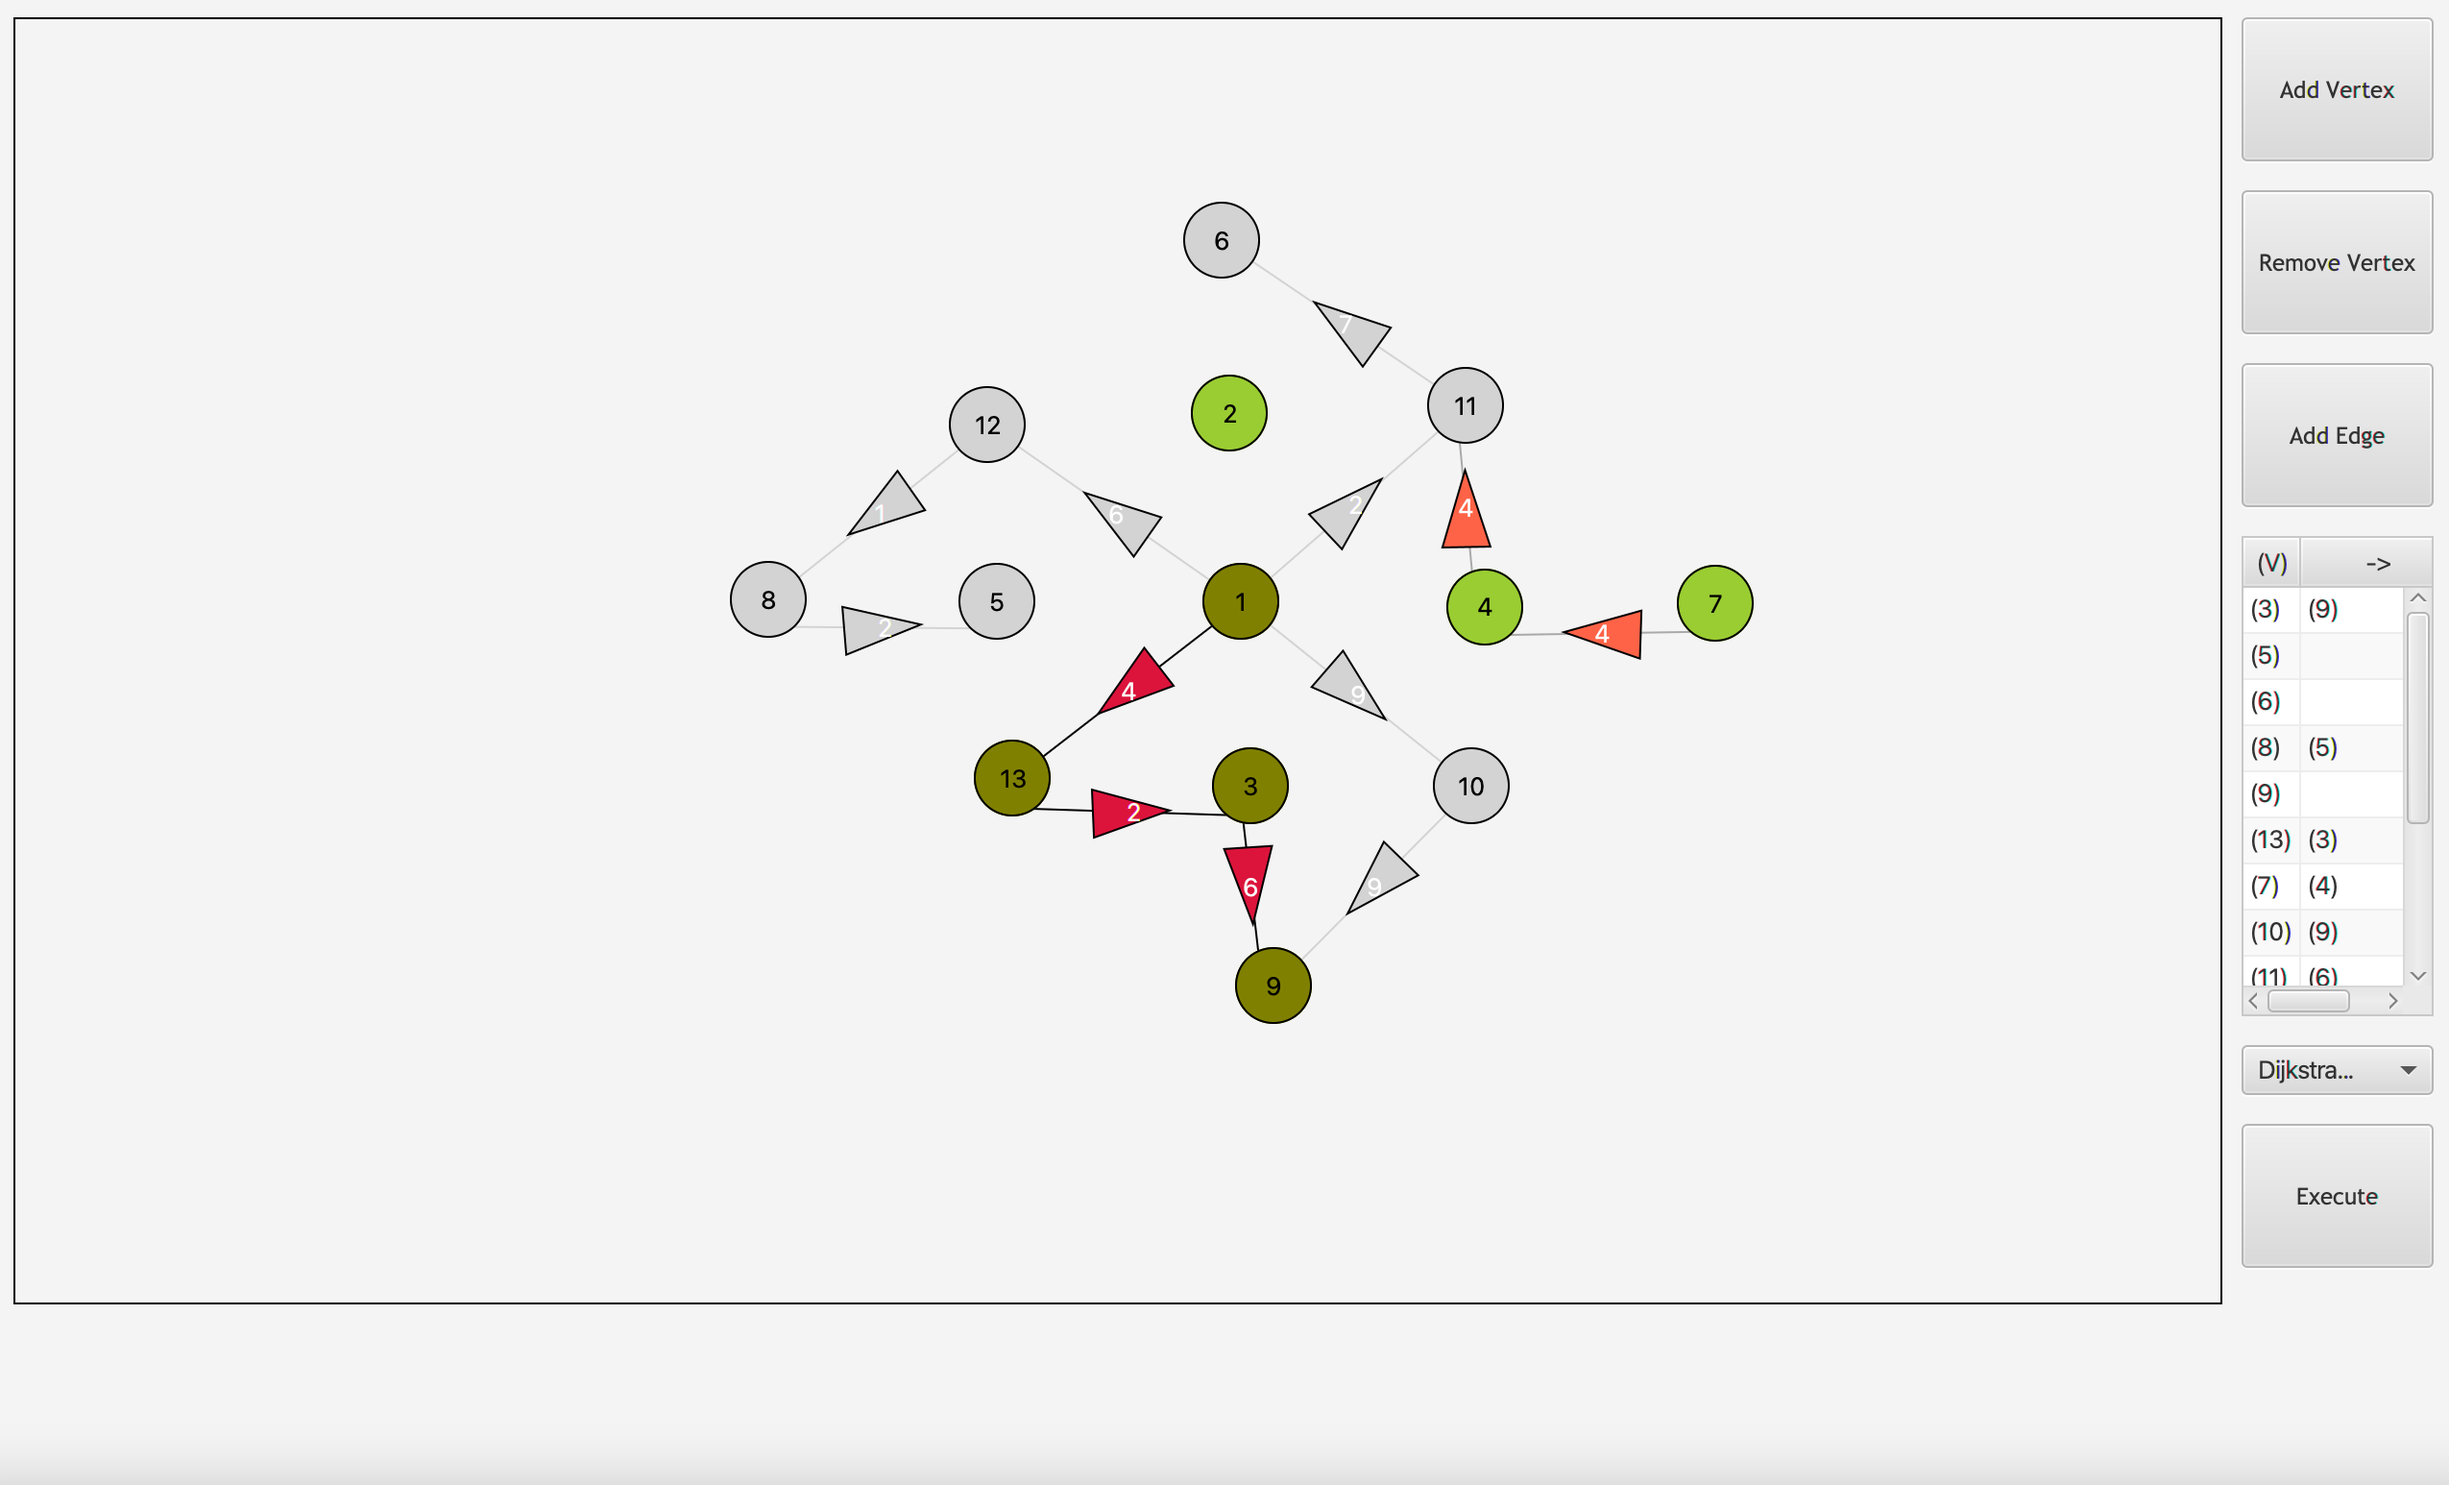
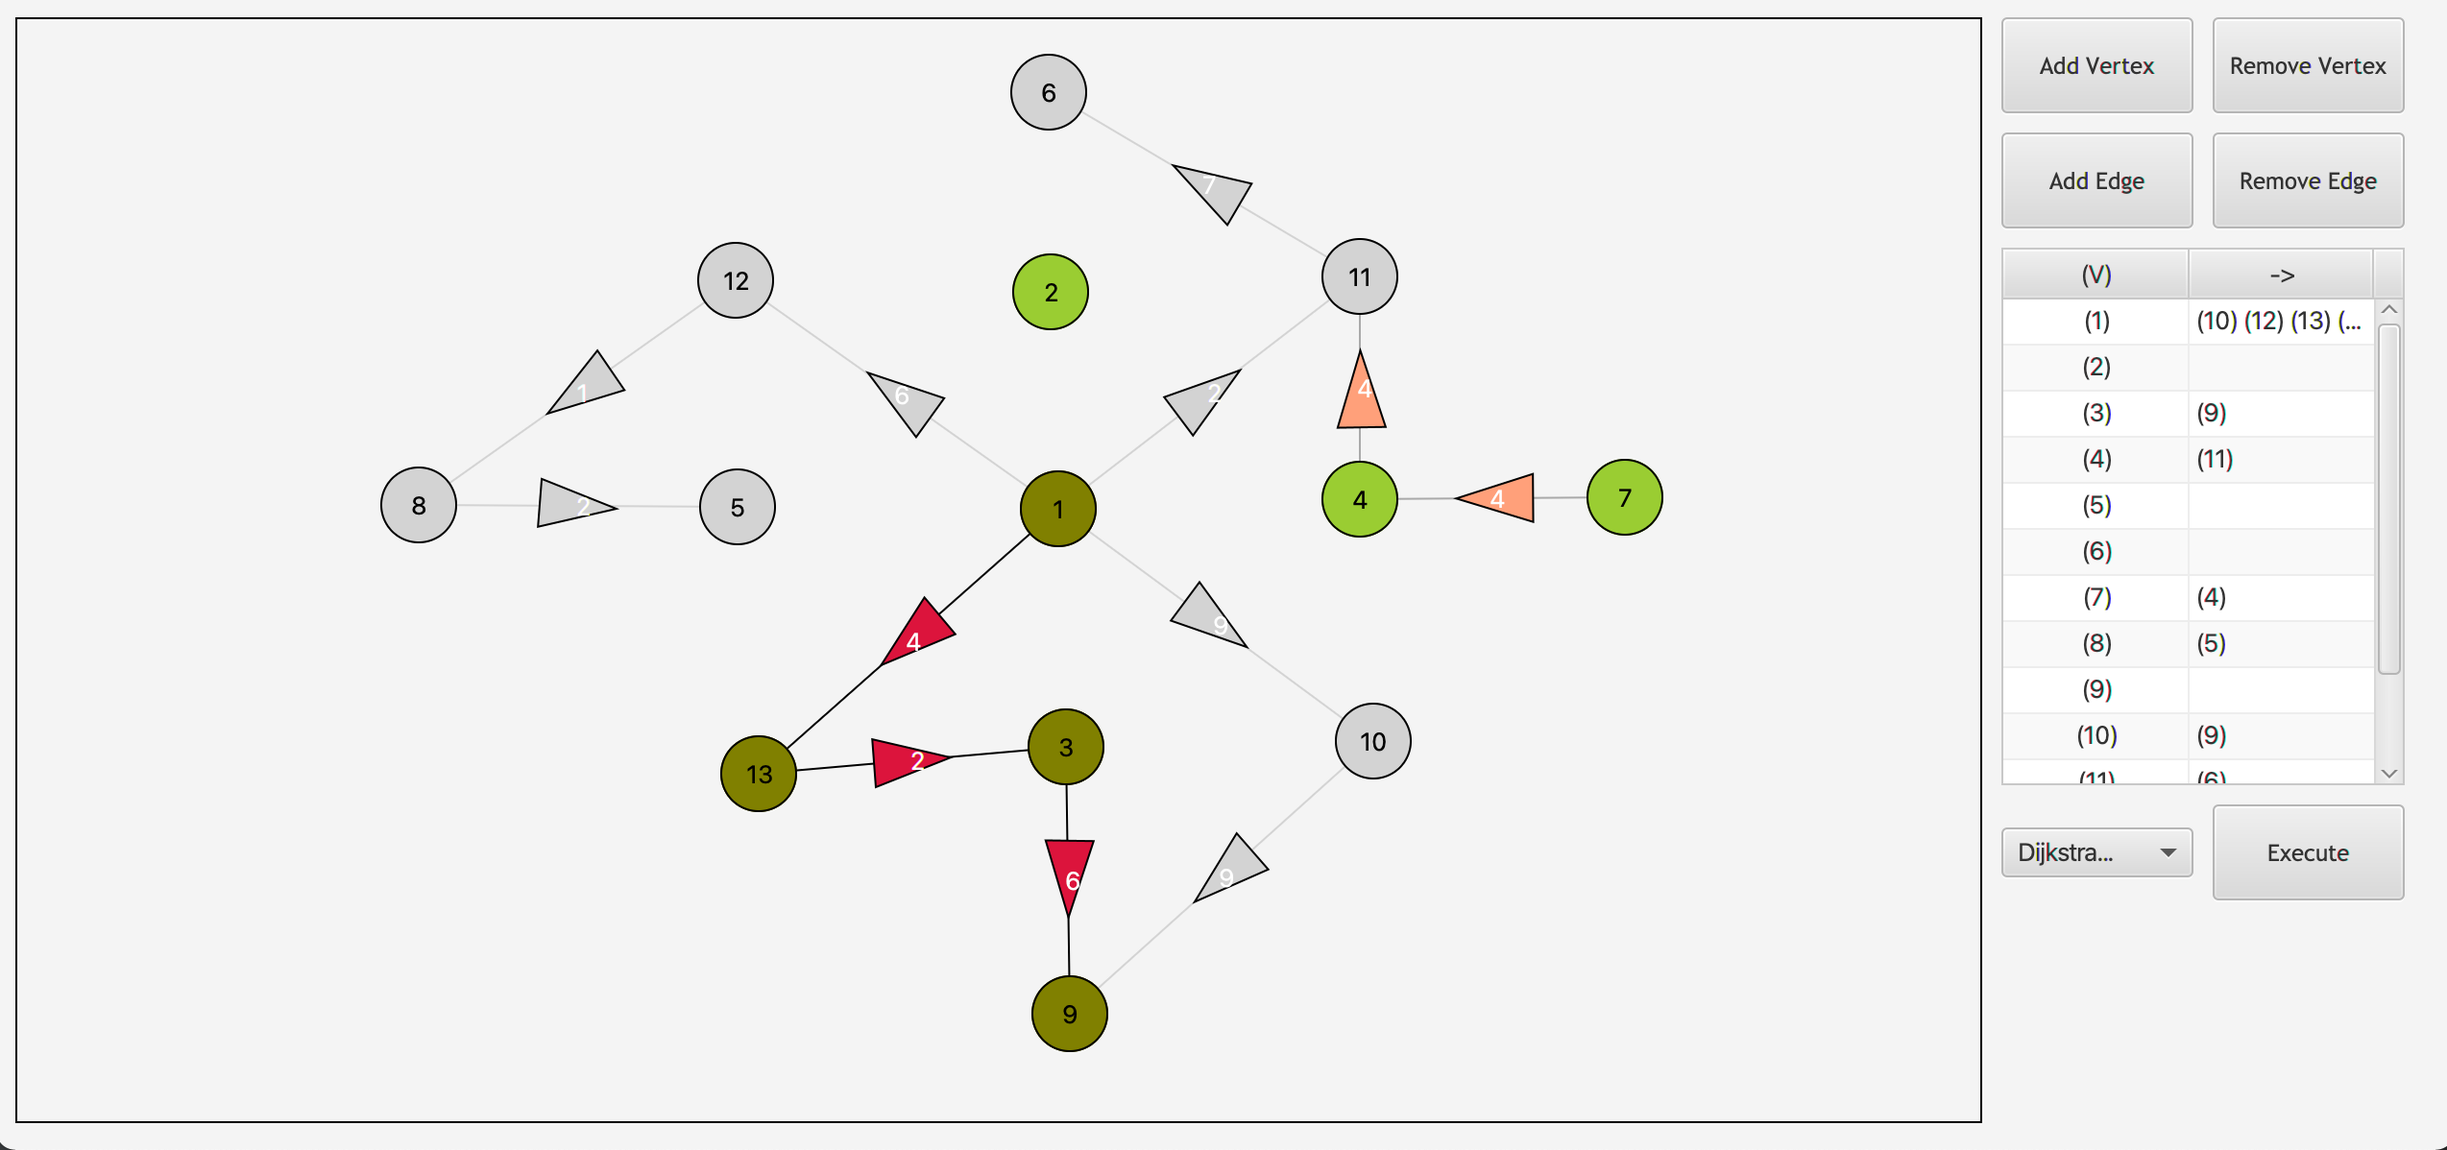
Improve UI

diff --git a/src/main/resources/com/algwiz/styles.css b/src/main/resources/com/algwiz/styles.css
@@ -6,7 +6,7 @@
 }
 
 .edge-arrow-head {
-    -fx-fill: tomato;
+    -fx-fill: lightsalmon;
     -fx-opacity: 100.0;
     -fx-stroke: black;
     -fx-stroke-width: 1px;

diff --git a/src/main/java/com/algwiz/WizBoardController.java b/src/main/java/com/algwiz/WizBoardController.java
@@ -10,6 +10,7 @@ import javafx.scene.Parent;
 import javafx.scene.control.*;
 import javafx.scene.input.MouseDragEvent;
 import javafx.scene.input.MouseEvent;
+import javafx.scene.layout.FlowPane;
 import javafx.scene.layout.Pane;
 
 import java.net.URL;
@@ -25,6 +26,9 @@ public class WizBoardController implements Initializable {
 
     @FXML
     Pane board;
+
+    @FXML
+    FlowPane sidePanel;
 
     @FXML
     ToggleGroup modify;
@@ -49,9 +53,6 @@ public class WizBoardController implements Initializable {
 
     @FXML
     Button executeButton;
-
-    @FXML
-    Label dialogLabel;
 
 
     public int lowestMissingIndex() {
@@ -223,22 +224,18 @@ public class WizBoardController implements Initializable {
 
             switch (choice) {
                 case 0:
-                    dialogLabel.setText(String.format("%s | Source Vertex: %s\n", algorithmBox.getValue(), v));
                     AlgBook.BFS(vertices, v);
                     break;
                 case 1:
-                    dialogLabel.setText(String.format("%s | Source Vertex: %s\n", algorithmBox.getValue(), v));
                     AlgBook.DFS(vertices, v);
                     break;
                 case 2:
-                    dialogLabel.setText(String.format("%s | Source Vertex: %s | Destination Vertex: %s\n", algorithmBox.getValue(), v, v2));
                     AlgBook.dijkstra(vertices, v, v2);
                     break;
             }
 
             v = null;
             v2 = null;
-            dialogLabel.setText("");
             
             board.removeEventHandler(MouseEvent.MOUSE_CLICKED, selectVertexHandler);
             mouseEvent.consume();

diff --git a/src/main/java/com/algwiz/AlgBook.java b/src/main/java/com/algwiz/AlgBook.java
@@ -179,7 +179,7 @@ public final class AlgBook {
 
     private static ParallelTransition edgeStroke(Edge e) {
         StrokeTransition lineStroke =  new StrokeTransition(Duration.millis(1000), e.getLine(), Color.DARKGRAY, Color.BLACK);
-        FillTransition arrowFill =  new FillTransition(Duration.millis(1000), e.getArrowHead(), Color.TOMATO, Color.CRIMSON);
+        FillTransition arrowFill =  new FillTransition(Duration.millis(1000), e.getArrowHead(), Color.LIGHTSALMON, Color.CRIMSON);
         return new ParallelTransition(lineStroke, arrowFill);
     }
 
@@ -189,7 +189,7 @@ public final class AlgBook {
 
     private static ParallelTransition edgeUnStroke(Edge e) {
         StrokeTransition lineStroke =  new StrokeTransition(Duration.millis(1000), e.getLine(), Color.DARKGRAY, Color.LIGHTGRAY);
-        FillTransition arrowFill =  new FillTransition(Duration.millis(1000), e.getArrowHead(), Color.TOMATO, Color.LIGHTGRAY);
+        FillTransition arrowFill =  new FillTransition(Duration.millis(1000), e.getArrowHead(), Color.LIGHTSALMON, Color.LIGHTGRAY);
         return new ParallelTransition(lineStroke, arrowFill);
     }
 

diff --git a/src/main/java/com/algwiz/Driver.java b/src/main/java/com/algwiz/Driver.java
@@ -12,7 +12,7 @@ public class Driver extends Application {
     public void start(Stage stage) throws IOException {
         FXMLLoader fxmlLoader = new FXMLLoader(Driver.class.getResource("WizBoard.fxml"));
 
-        Scene scene = new Scene(fxmlLoader.load(), 1280, 800);
+        Scene scene = new Scene(fxmlLoader.load(), 1280, 600);
         stage.setTitle("AlgWiz");
         stage.setScene(scene);
         stage.show();
